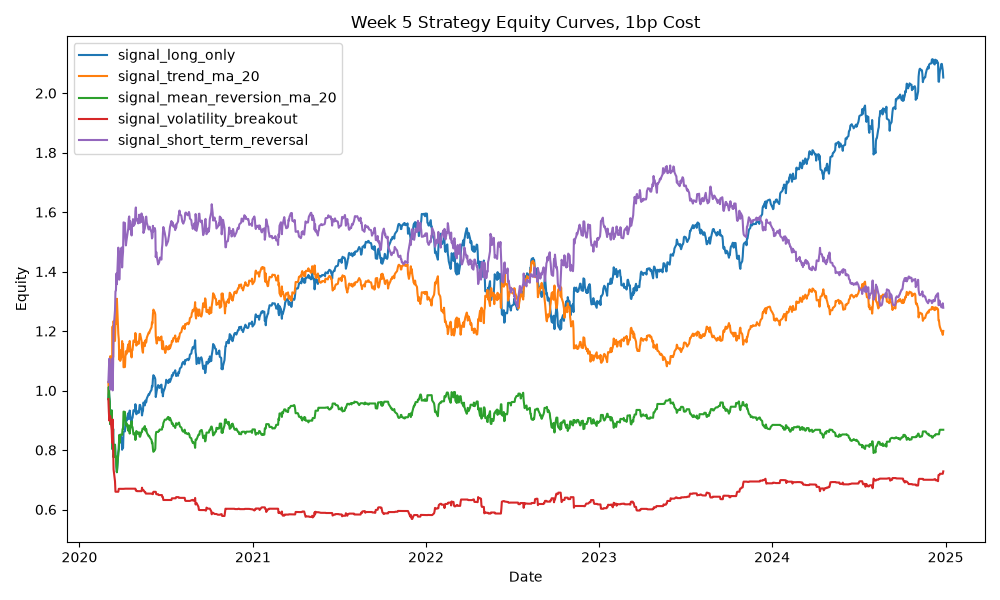
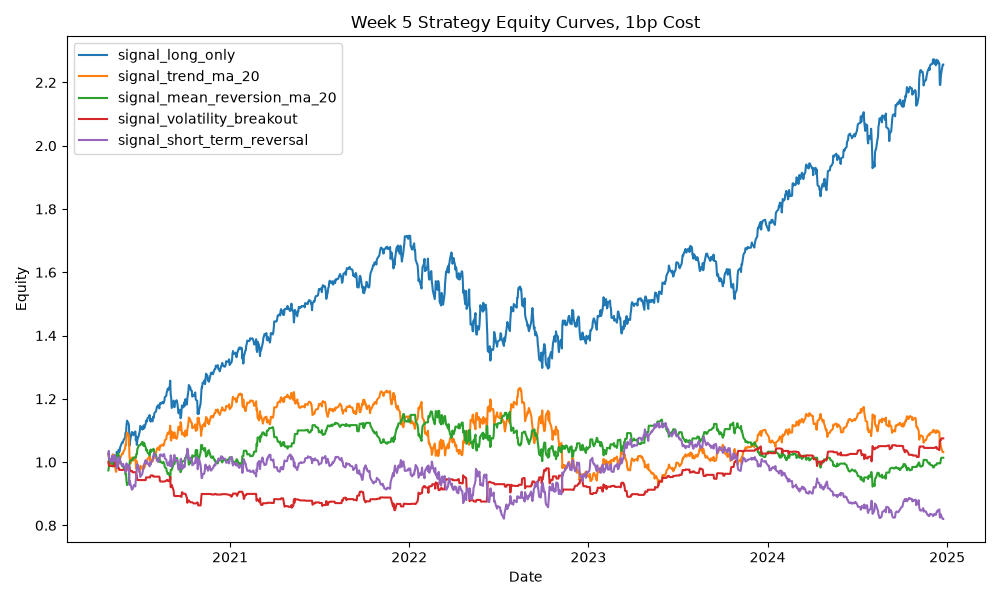
Refresh experiment outputs for final report

diff --git a/reports/week_5_backtest_results.md b/reports/week_5_backtest_results.md
@@ -8,7 +8,7 @@ The objective of this week was to build a simple vectorised backtesting engine a
 
 Feature file used:
 
-`data\processed\features_features_SPY_1d_2020-01-01_2025-01-01.parquet`
+`data\processed\features_features_features_features_SPY_1d_2020-01-01_2025-01-01.parquet`
 
 The strategy signals use the feature dataset created in Week 2.
 
@@ -36,21 +36,21 @@ Costs are charged on turnover:
 
 | strategy | cost_bps | cumulative_return | annualised_return | annualised_volatility | sharpe_ratio | max_drawdown | hit_rate | average_turnover |
 | --- | --- | --- | --- | --- | --- | --- | --- | --- |
-| signal_long_only | 0.0 | 1.0527 | 0.1607 | 0.2096 | 0.7666 | -0.2832 | 0.5485 | 0.0008 |
-| signal_trend_ma_20 | 0.0 | 0.2278 | 0.0434 | 0.2099 | 0.207 | -0.2422 | 0.5387 | 0.185 |
-| signal_mean_reversion_ma_20 | 0.0 | -0.1083 | -0.0235 | 0.1869 | -0.1256 | -0.2832 | 0.352 | 0.2204 |
-| signal_volatility_breakout | 0.0 | -0.2218 | -0.0506 | 0.1354 | -0.374 | -0.4012 | 0.1694 | 0.5452 |
-| signal_short_term_reversal | 0.0 | 0.4449 | 0.0793 | 0.2097 | 0.378 | -0.2489 | 0.5016 | 1.0074 |
-| signal_long_only | 1.0 | 1.0524 | 0.1607 | 0.2096 | 0.7665 | -0.2832 | 0.5485 | 0.0008 |
-| signal_trend_ma_20 | 1.0 | 0.2005 | 0.0386 | 0.2099 | 0.1839 | -0.2466 | 0.5378 | 0.185 |
-| signal_mean_reversion_ma_20 | 1.0 | -0.1319 | -0.0289 | 0.1869 | -0.1545 | -0.2832 | 0.3503 | 0.2204 |
-| signal_volatility_breakout | 1.0 | -0.2717 | -0.0636 | 0.1354 | -0.4697 | -0.4149 | 0.1686 | 0.5452 |
-| signal_short_term_reversal | 1.0 | 0.2783 | 0.0522 | 0.2097 | 0.249 | -0.2723 | 0.4975 | 1.0074 |
-| signal_long_only | 5.0 | 1.0516 | 0.1606 | 0.2097 | 0.7659 | -0.2832 | 0.5485 | 0.0008 |
-| signal_trend_ma_20 | 5.0 | 0.0972 | 0.0194 | 0.2098 | 0.0925 | -0.2779 | 0.5329 | 0.185 |
-| signal_mean_reversion_ma_20 | 5.0 | -0.2201 | -0.0502 | 0.187 | -0.2686 | -0.2922 | 0.347 | 0.2204 |
-| signal_volatility_breakout | 5.0 | -0.4415 | -0.1137 | 0.1356 | -0.8387 | -0.4824 | 0.1628 | 0.5452 |
-| signal_short_term_reversal | 5.0 | -0.217 | -0.0494 | 0.2099 | -0.2356 | -0.5043 | 0.4729 | 1.0074 |
+| signal_long_only | 0.0 | 1.2567 | 0.1909 | 0.1691 | 1.1291 | -0.245 | 0.5511 | 0.0009 |
+| signal_trend_ma_20 | 0.0 | 0.0545 | 0.0115 | 0.1695 | 0.0676 | -0.2422 | 0.5375 | 0.1882 |
+| signal_mean_reversion_ma_20 | 0.0 | 0.0407 | 0.0086 | 0.1409 | 0.061 | -0.1963 | 0.3501 | 0.2232 |
+| signal_volatility_breakout | 0.0 | 0.1455 | 0.0296 | 0.0984 | 0.3007 | -0.1388 | 0.1712 | 0.5426 |
+| signal_short_term_reversal | 0.0 | -0.078 | -0.0173 | 0.1693 | -0.102 | -0.2489 | 0.4957 | 0.9957 |
+| signal_long_only | 1.0 | 1.2565 | 0.1909 | 0.1691 | 1.1289 | -0.245 | 0.5511 | 0.0009 |
+| signal_trend_ma_20 | 1.0 | 0.0315 | 0.0067 | 0.1695 | 0.0394 | -0.2466 | 0.5366 | 0.1882 |
+| signal_mean_reversion_ma_20 | 1.0 | 0.0137 | 0.0029 | 0.1409 | 0.0208 | -0.2062 | 0.3484 | 0.2232 |
+| signal_volatility_breakout | 1.0 | 0.0749 | 0.0156 | 0.0984 | 0.1587 | -0.1561 | 0.1704 | 0.5426 |
+| signal_short_term_reversal | 1.0 | -0.1797 | -0.0416 | 0.1693 | -0.2459 | -0.2714 | 0.4923 | 0.9957 |
+| signal_long_only | 5.0 | 1.2556 | 0.1908 | 0.1691 | 1.1284 | -0.245 | 0.5511 | 0.0009 |
+| signal_trend_ma_20 | 5.0 | -0.0558 | -0.0122 | 0.1694 | -0.0722 | -0.2779 | 0.5315 | 0.1882 |
+| signal_mean_reversion_ma_20 | 5.0 | -0.0872 | -0.0194 | 0.141 | -0.1375 | -0.2447 | 0.345 | 0.2232 |
+| signal_volatility_breakout | 5.0 | -0.1669 | -0.0384 | 0.0984 | -0.3907 | -0.2447 | 0.1644 | 0.5426 |
+| signal_short_term_reversal | 5.0 | -0.4863 | -0.1332 | 0.1696 | -0.7855 | -0.5033 | 0.4668 | 0.9957 |
 
 ## Equity Curves
 

diff --git a/reports/week_6_ml_results.md b/reports/week_6_ml_results.md
@@ -10,7 +10,7 @@ The focus was not to maximise performance, but to evaluate simple ML models prop
 
 Feature file used:
 
-`data\processed\features_features_features_SPY_1d_2020-01-01_2025-01-01.parquet`
+`data\processed\features_features_features_features_SPY_1d_2020-01-01_2025-01-01.parquet`
 
 The feature dataset was created from the Week 2 data pipeline.
 
@@ -56,9 +56,9 @@ This avoids random train/test splitting, which would leak future information in 
 
 | model | accuracy | precision | recall | f1 | roc_auc | n_predictions |
 | --- | --- | --- | --- | --- | --- | --- |
-| logistic_regression | 0.5338 | 0.5372 | 0.9652 | 0.6902 | 0.4666 | 695 |
-| random_forest | 0.5281 | 0.5381 | 0.869 | 0.6646 | 0.4894 | 695 |
-| hist_gradient_boosting | 0.4993 | 0.5275 | 0.6658 | 0.5887 | 0.4835 | 695 |
+| logistic_regression | 0.546 | 0.5457 | 0.9505 | 0.6934 | 0.4755 | 674 |
+| random_forest | 0.5163 | 0.5335 | 0.8324 | 0.6502 | 0.4769 | 674 |
+| hist_gradient_boosting | 0.4926 | 0.5233 | 0.6786 | 0.5909 | 0.4711 | 674 |
 
 ## ML Signal Construction
 
@@ -74,15 +74,15 @@ The neutral zone avoids trading on weak model confidence.
 
 | model | cost_bps | cumulative_return | annualised_return | annualised_volatility | sharpe_ratio | max_drawdown | hit_rate | average_turnover |
 | --- | --- | --- | --- | --- | --- | --- | --- | --- |
-| hist_gradient_boosting | 0.0 | -0.1229 | -0.0464 | 0.1589 | -0.2922 | -0.312 | 0.436 | 0.7928 |
-| hist_gradient_boosting | 1.0 | -0.1699 | -0.0653 | 0.1589 | -0.4109 | -0.3226 | 0.4317 | 0.7928 |
-| hist_gradient_boosting | 5.0 | -0.3343 | -0.1372 | 0.1593 | -0.8613 | -0.3869 | 0.4216 | 0.7928 |
-| logistic_regression | 0.0 | 0.1286 | 0.0448 | 0.1541 | 0.2908 | -0.1868 | 0.423 | 0.2173 |
-| logistic_regression | 1.0 | 0.1116 | 0.0391 | 0.1541 | 0.2538 | -0.1875 | 0.4216 | 0.2173 |
-| logistic_regression | 5.0 | 0.0465 | 0.0166 | 0.1542 | 0.1077 | -0.1901 | 0.4173 | 0.2173 |
-| random_forest | 0.0 | 0.3365 | 0.1109 | 0.1591 | 0.6972 | -0.2139 | 0.4446 | 0.4475 |
-| random_forest | 1.0 | 0.2956 | 0.0984 | 0.1591 | 0.6187 | -0.2186 | 0.4446 | 0.4475 |
-| random_forest | 5.0 | 0.144 | 0.05 | 0.1593 | 0.3136 | -0.2372 | 0.4345 | 0.4475 |
+| hist_gradient_boosting | 0.0 | -0.3429 | -0.1453 | 0.1637 | -0.8877 | -0.4178 | 0.4243 | 0.7226 |
+| hist_gradient_boosting | 1.0 | -0.3742 | -0.1607 | 0.1638 | -0.9816 | -0.4377 | 0.4228 | 0.7226 |
+| hist_gradient_boosting | 5.0 | -0.4851 | -0.2198 | 0.1642 | -1.3386 | -0.5199 | 0.4125 | 0.7226 |
+| logistic_regression | 0.0 | 0.289 | 0.0996 | 0.1522 | 0.6541 | -0.1498 | 0.4525 | 0.1528 |
+| logistic_regression | 1.0 | 0.2758 | 0.0954 | 0.1522 | 0.6263 | -0.1507 | 0.4496 | 0.1528 |
+| logistic_regression | 5.0 | 0.2244 | 0.0786 | 0.1522 | 0.5164 | -0.1611 | 0.4496 | 0.1528 |
+| random_forest | 0.0 | 0.1042 | 0.0378 | 0.1508 | 0.2504 | -0.2114 | 0.4318 | 0.4228 |
+| random_forest | 1.0 | 0.0732 | 0.0268 | 0.1508 | 0.1774 | -0.2223 | 0.4318 | 0.4228 |
+| random_forest | 5.0 | -0.0425 | -0.0161 | 0.151 | -0.1067 | -0.2645 | 0.4273 | 0.4228 |
 
 ## Probability Plot
 